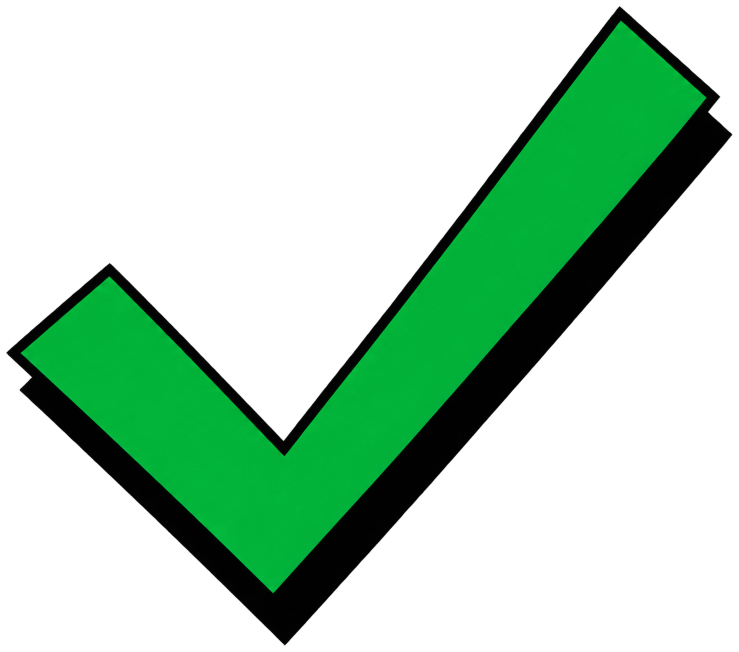
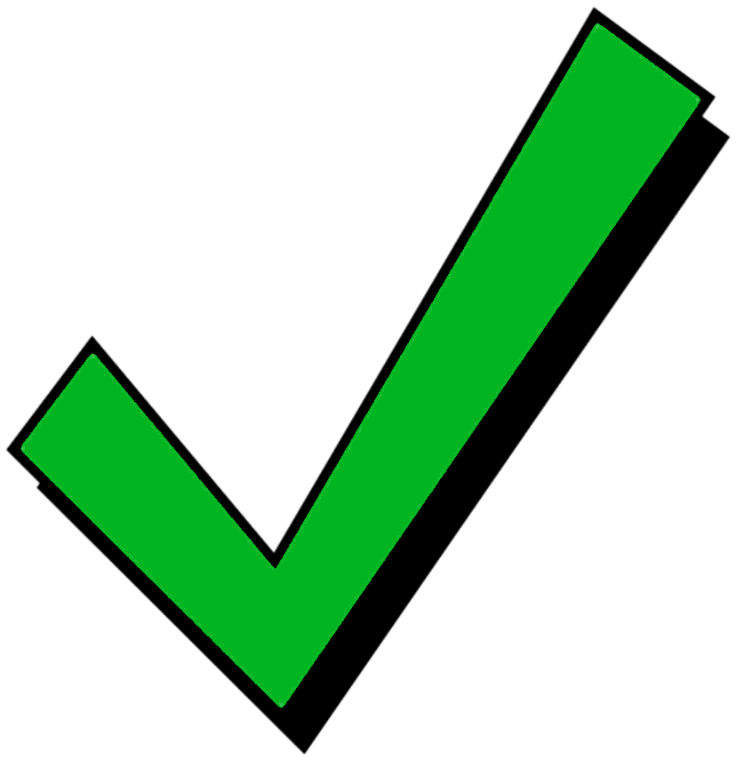
v1.0.9: Update green checkmark asset, dynamic aspect ratio rendering, bump version to 1.0.9 and build code to 9

diff --git a/android/app/src/main/kotlin/com/pdfsignverify/pdf_sign_verify/PdfSignatureVerifier.kt b/android/app/src/main/kotlin/com/pdfsignverify/pdf_sign_verify/PdfSignatureVerifier.kt
@@ -1291,7 +1291,7 @@ class PdfSignatureVerifier(private val context: Context) {
                     val tickW: Float
                     val tickH: Float
 
-                    val tickAspectRatio = 739.0f / 652.0f
+                    val tickAspectRatio = loadTickImageData()?.let { if (it.height > 0) it.width / it.height else null } ?: (736.0f / 761.0f)
 
                     if (exactN1Rect != null) {
                         // Perfectly balanced tick scale (0.80f)
@@ -1507,9 +1507,7 @@ class PdfSignatureVerifier(private val context: Context) {
                 val topMargin = maxOf((boxH - totalBlockHeight) * 0.5f, 2.0f)
                 val textX = boxX + maxOf(boxW * 0.04f, 2.0f)
 
-                // Dynamic tick dimensions and positioning (exact middle of signature box)
-                // Ratio is 739 / 652 = 1.1334
-                val tickAspectRatio = 739.0f / 652.0f
+                val tickAspectRatio = loadTickImageData()?.let { if (it.height > 0) it.width / it.height else null } ?: (736.0f / 761.0f)
                 val tickH = if (boxW >= 85f) minOf(boxH * 0.70f, 38.0f) else minOf(boxH * 0.78f, 29.0f)
                 val tickW = tickH * tickAspectRatio
 
@@ -1769,7 +1767,11 @@ class PdfSignatureVerifier(private val context: Context) {
         return Pair(modified, n1Modified)
     }
 
+    @Volatile
+    private var cachedTickImageData: com.itextpdf.io.image.ImageData? = null
+
     private fun loadTickImageData(): com.itextpdf.io.image.ImageData? {
+        cachedTickImageData?.let { return it }
         val assetPaths = listOf(
             "adobe_green_tick.png",
             "flutter_assets/assets/images/adobe_green_tick.png",
@@ -1781,7 +1783,9 @@ class PdfSignatureVerifier(private val context: Context) {
                 val tickBytes = tickStream.readBytes()
                 tickStream.close()
                 if (tickBytes.isNotEmpty()) {
-                    return com.itextpdf.io.image.ImageDataFactory.create(tickBytes)
+                    val data = com.itextpdf.io.image.ImageDataFactory.create(tickBytes)
+                    cachedTickImageData = data
+                    return data
                 }
             } catch (e: Exception) {
                 // try next candidate path

diff --git a/lib/services/report_service.dart b/lib/services/report_service.dart
@@ -17,7 +17,7 @@ class ReportService {
     buffer.writeln('╚══════════════════════════════════════════════════════════╝');
     buffer.writeln();
     buffer.writeln('Report Generated: ${dateFormat.format(now)}');
-    buffer.writeln('App Version: PDF Sign Verify v1.0.8');
+    buffer.writeln('App Version: PDF Sign Verify v1.0.9');
     buffer.writeln();
 
     // File Information

diff --git a/lib/screens/home_screen.dart b/lib/screens/home_screen.dart
@@ -1440,7 +1440,7 @@ class _HomeScreenState extends State<HomeScreen>
                     borderRadius: BorderRadius.circular(20),
                   ),
                   child: Text(
-                    'v1.0.8 • Digital Signature Engine',
+                    'v1.0.9 • Digital Signature Engine',
                     style: TextStyle(
                       fontSize: 12,
                       fontWeight: FontWeight.w600,

diff --git a/android/app/src/main/kotlin/com/pdfsignverify/pdf_sign_verify/MainActivity.kt b/android/app/src/main/kotlin/com/pdfsignverify/pdf_sign_verify/MainActivity.kt
@@ -49,7 +49,7 @@ class MainActivity : FlutterActivity() {
                         val pInfo = packageManager.getPackageInfo(packageName, 0)
                         result.success(pInfo.versionName)
                     } catch (e: Exception) {
-                        result.success("1.0.8")
+                        result.success("1.0.9")
                     }
                 }
                 "savePdfToDownloads" -> {

diff --git a/lib/screens/splash_screen.dart b/lib/screens/splash_screen.dart
@@ -127,7 +127,7 @@ class _SplashScreenState extends State<SplashScreen>
                 delay: const Duration(milliseconds: 350),
                 duration: const Duration(milliseconds: 400),
                 child: Text(
-                  'v1.0.8',
+                  'v1.0.9',
                   style: TextStyle(
                     fontSize: 13,
                     color: Colors.white.withValues(alpha: 0.5),

diff --git a/lib/services/verification_service.dart b/lib/services/verification_service.dart
@@ -39,7 +39,7 @@ class VerificationService {
       final String version = await _channel.invokeMethod('getAppVersion');
       return version;
     } catch (e) {
-      return '1.0.8';
+      return '1.0.9';
     }
   }
 }
